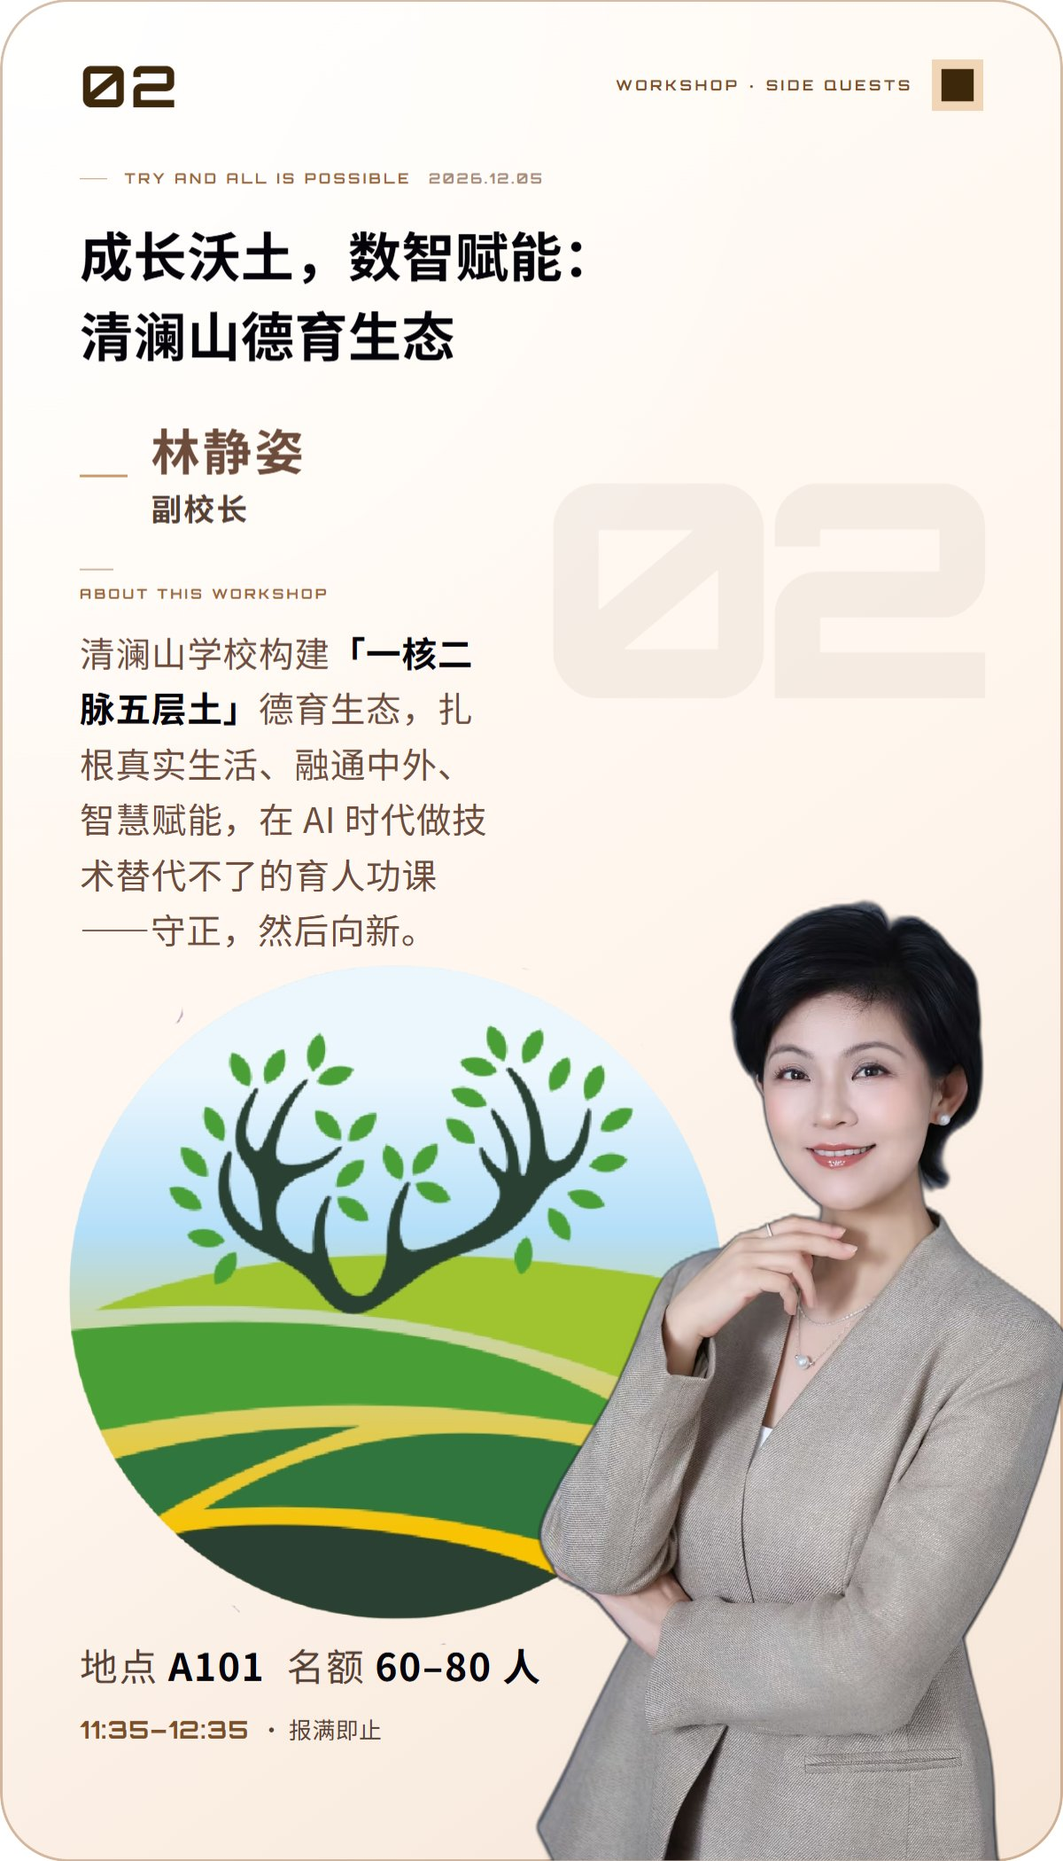
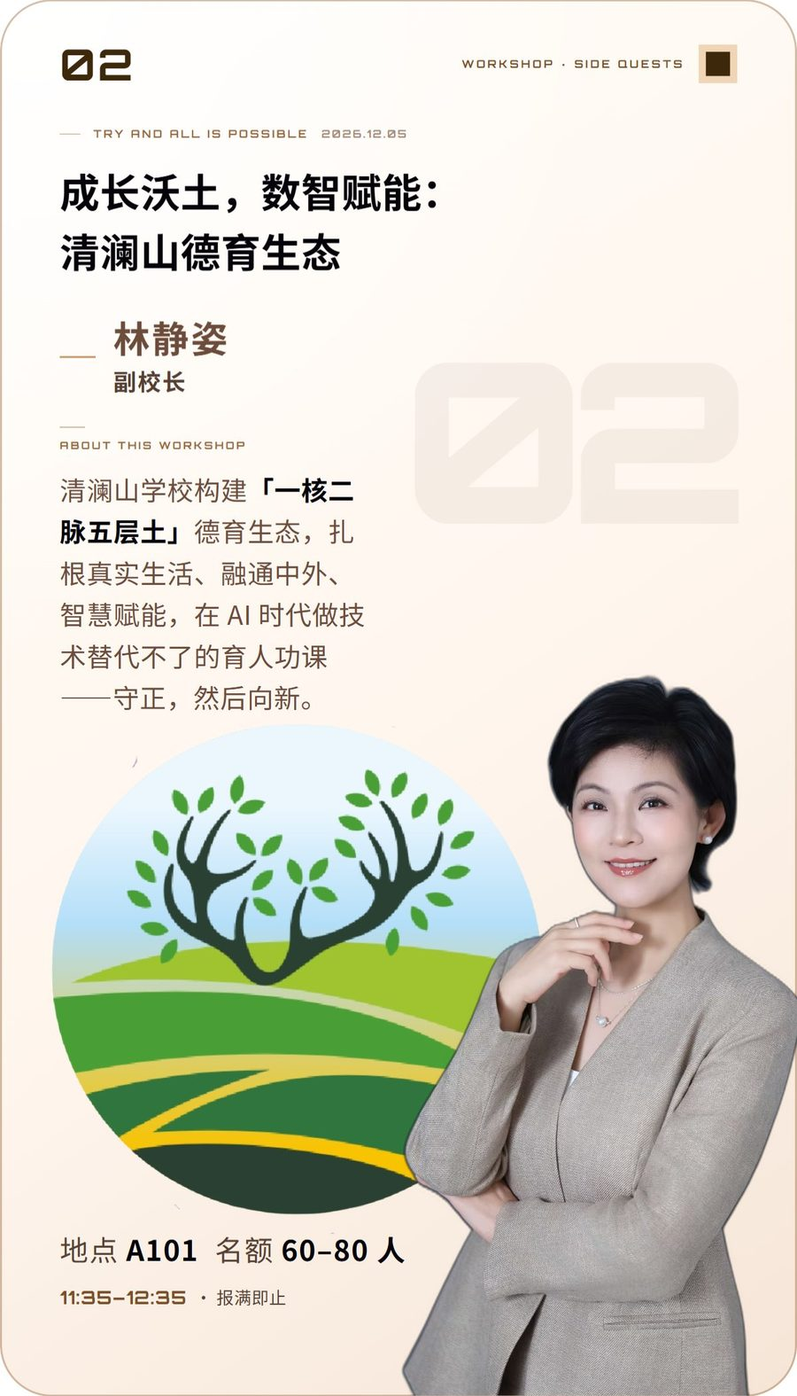
全站性能优化：海报900px重压缩省1.1MB、删7个无引用素材、img补宽高防抖动、粒子后台暂停

Changed region(s): [[0.3733, 0.3422, 0.4044, 0.3733], [0.1244, 0.4356, 0.1556, 0.4667]]

diff --git a/workshops.html b/workshops.html
@@ -451,18 +451,18 @@ fieldset{border:0;margin:0;padding:0;min-width:0}
       <div class="stage">
       <button type="button" class="edge edge--prev" id="deck-prev" aria-label="上一场" hidden><svg viewBox="0 0 24 24" width="26" height="26" aria-hidden="true"><path d="M15 4 L7 12 L15 20" fill="none" stroke="currentColor" stroke-width="2.4" stroke-linecap="round" stroke-linejoin="round"/></svg></button>
       <div class="deck" id="deck" aria-label="十二场工作坊，左右滑动换场">
-        <label class="card card--door" id="w01"><input type="radio" name="workshop" autocomplete="off" value="01"><span class="card__face"><img class="card__poster" data-src="assets/posters/01.jpg" alt="01 场海报：AI 教育创新的国际经验与基础教育本土化实践 · 黎蒙"><span class="card__door" aria-hidden="true"><b class="card__door-num">01</b><span class="card__door-t">点击开门 查看工作坊详情</span><span class="card__door-sub">黎蒙 · AI 教育创新</span><span class="card__keyhole"><i></i></span></span><span class="card__top"><b>01</b><span class="card__end"><span class="card__flag">已预选</span><i class="card__sq" aria-hidden="true"></i></span></span><span class="card__body"><span class="card__name">拒绝「伪装变革」：AI 时代重构真实学习设计的实操路径</span><span class="card__who">黎蒙</span></span><span class="card__meta"><span>地点<b>C100</b></span><span>名额<b>60–80 人</b></span></span></span></label>
-        <label class="card card--door" id="w02"><input type="radio" name="workshop" autocomplete="off" value="02"><span class="card__face"><img class="card__poster" data-src="assets/posters/02.jpg" alt="02 场工作坊海报"><span class="card__door" aria-hidden="true"><b class="card__door-num">02</b><span class="card__door-t">点击开门 查看工作坊详情</span><span class="card__door-sub">林静姿</span><span class="card__keyhole"><i></i></span></span><span class="card__top"><b>02</b><span class="card__end"><span class="card__flag">已预选</span><i class="card__sq" aria-hidden="true"></i></span></span><span class="card__body"><span class="card__name">当 AI 比我们会讲道理：国际化学校的德育，如何从「管住人」走向「长出判断」</span><span class="card__who">林静姿</span></span><span class="card__meta"><span>地点<b>待补</b></span><span>名额<b>待补</b></span></span></span></label>
-        <label class="card card--door" id="w03"><input type="radio" name="workshop" autocomplete="off" value="03"><span class="card__face"><img class="card__poster" data-src="assets/posters/03.jpg" alt="03 场工作坊海报"><span class="card__door" aria-hidden="true"><b class="card__door-num">03</b><span class="card__door-t">点击开门 查看工作坊详情</span><span class="card__door-sub">孙成伟</span><span class="card__keyhole"><i></i></span></span><span class="card__top"><b>03</b><span class="card__end"><span class="card__flag">已预选</span><i class="card__sq" aria-hidden="true"></i></span></span><span class="card__body"><span class="card__name">破解学习迷宫：AI 驱动下的个性化学习空间与路线设计</span><span class="card__who">孙成伟</span></span><span class="card__meta"><span>地点<b>待补</b></span><span>名额<b>待补</b></span></span></span></label>
-        <label class="card card--door" id="w04"><input type="radio" name="workshop" autocomplete="off" value="04"><span class="card__face"><img class="card__poster" data-src="assets/posters/04.jpg" alt="04 场工作坊海报"><span class="card__door" aria-hidden="true"><b class="card__door-num">04</b><span class="card__door-t">点击开门 查看工作坊详情</span><span class="card__door-sub">祁镇华 · 向晶</span><span class="card__keyhole"><i></i></span></span><span class="card__top"><b>04</b><span class="card__end"><span class="card__flag">已预选</span><i class="card__sq" aria-hidden="true"></i></span></span><span class="card__body"><span class="card__name">让数据「开口说话」：AI 驱动下的教务管理转型</span><span class="card__who">祁镇华 · 向晶</span></span><span class="card__meta"><span>地点<b>待补</b></span><span>名额<b>待补</b></span></span></span></label>
-        <label class="card card--door" id="w05"><input type="radio" name="workshop" autocomplete="off" value="05"><span class="card__face"><img class="card__poster" data-src="assets/posters/05.jpg" alt="05 场工作坊海报"><span class="card__door" aria-hidden="true"><b class="card__door-num">05</b><span class="card__door-t">点击开门 查看工作坊详情</span><span class="card__door-sub">Roselyn · 郭嘉</span><span class="card__keyhole"><i></i></span></span><span class="card__top"><b>05</b><span class="card__end"><span class="card__flag">已预选</span><i class="card__sq" aria-hidden="true"></i></span></span><span class="card__body"><span class="card__name">当作业可以一键生成：我们如何重塑「真学习」评估</span><span class="card__who">Roselyn · 郭嘉</span></span><span class="card__meta"><span>地点<b>待补</b></span><span>名额<b>待补</b></span></span></span></label>
-        <label class="card card--door" id="w06"><input type="radio" name="workshop" autocomplete="off" value="06"><span class="card__face"><img class="card__poster" data-src="assets/posters/06.jpg" alt="06 场工作坊海报"><span class="card__door" aria-hidden="true"><b class="card__door-num">06</b><span class="card__door-t">点击开门 查看工作坊详情</span><span class="card__door-sub">莫启源 · 阎泽雄</span><span class="card__keyhole"><i></i></span></span><span class="card__top"><b>06</b><span class="card__end"><span class="card__flag">已预选</span><i class="card__sq" aria-hidden="true"></i></span></span><span class="card__body"><span class="card__name">破局「课表难题」：如何系统化打造「每天一节」的硬核体育课程</span><span class="card__who">莫启源 · 阎泽雄</span></span><span class="card__meta"><span>地点<b>待补</b></span><span>名额<b>待补</b></span></span></span></label>
-        <label class="card card--door" id="w07"><input type="radio" name="workshop" autocomplete="off" value="07"><span class="card__face"><img class="card__poster" data-src="assets/posters/07.jpg" alt="07 场工作坊海报"><span class="card__door" aria-hidden="true"><b class="card__door-num">07</b><span class="card__door-t">点击开门 查看工作坊详情</span><span class="card__door-sub">张赞</span><span class="card__keyhole"><i></i></span></span><span class="card__top"><b>07</b><span class="card__end"><span class="card__flag">已预选</span><i class="card__sq" aria-hidden="true"></i></span></span><span class="card__body"><span class="card__name">当画笔遇上代码：CG Lab 如何把艺术、工程与设计锻造成跨学科课程</span><span class="card__who">张赞</span></span><span class="card__meta"><span>地点<b>待补</b></span><span>名额<b>待补</b></span></span></span></label>
-        <label class="card card--door" id="w08"><input type="radio" name="workshop" autocomplete="off" value="08"><span class="card__face"><img class="card__poster" data-src="assets/posters/08.jpg" alt="08 场工作坊海报"><span class="card__door" aria-hidden="true"><b class="card__door-num">08</b><span class="card__door-t">点击开门 查看工作坊详情</span><span class="card__door-sub">谈昕然 · Ryan Wong</span><span class="card__keyhole"><i></i></span></span><span class="card__top"><b>08</b><span class="card__end"><span class="card__flag">已预选</span><i class="card__sq" aria-hidden="true"></i></span></span><span class="card__body"><span class="card__name">学生的主体性与能动性，如何从「发现问题」走向「回应真实世界」</span><span class="card__who">谈昕然 · Ryan Wong</span></span><span class="card__meta"><span>地点<b>待补</b></span><span>名额<b>待补</b></span></span></span></label>
-        <label class="card card--door" id="w09"><input type="radio" name="workshop" autocomplete="off" value="09"><span class="card__face"><img class="card__poster" data-src="assets/posters/09.jpg" alt="09 场工作坊海报"><span class="card__door" aria-hidden="true"><b class="card__door-num">09</b><span class="card__door-t">点击开门 查看工作坊详情</span><span class="card__door-sub">王珊 · 王艺桐</span><span class="card__keyhole"><i></i></span></span><span class="card__top"><b>09</b><span class="card__end"><span class="card__flag">已预选</span><i class="card__sq" aria-hidden="true"></i></span></span><span class="card__body"><span class="card__name">先照顾好人，再谈成绩：一套 SEL 教材与课程</span><span class="card__who">王珊 · 王艺桐</span></span><span class="card__meta"><span>地点<b>待补</b></span><span>名额<b>待补</b></span></span></span></label>
-        <label class="card card--door" id="w10"><input type="radio" name="workshop" autocomplete="off" value="10"><span class="card__face"><img class="card__poster" data-src="assets/posters/10.jpg" alt="10 场工作坊海报"><span class="card__door" aria-hidden="true"><b class="card__door-num">10</b><span class="card__door-t">点击开门 查看工作坊详情</span><span class="card__door-sub">魏方 · 郭航</span><span class="card__keyhole"><i></i></span></span><span class="card__top"><b>10</b><span class="card__end"><span class="card__flag">已预选</span><i class="card__sq" aria-hidden="true"></i></span></span><span class="card__body"><span class="card__name">最后一年，交出你自己的作品：小学、初中的毕业项目</span><span class="card__who">魏方 · 郭航</span></span><span class="card__meta"><span>地点<b>待补</b></span><span>名额<b>待补</b></span></span></span></label>
-        <label class="card card--door" id="w11"><input type="radio" name="workshop" autocomplete="off" value="11"><span class="card__face"><img class="card__poster" data-src="assets/posters/11.jpg" alt="11 场工作坊海报"><span class="card__door" aria-hidden="true"><b class="card__door-num">11</b><span class="card__door-t">点击开门 查看工作坊详情</span><span class="card__door-sub">白文婷</span><span class="card__keyhole"><i></i></span></span><span class="card__top"><b>11</b><span class="card__end"><span class="card__flag">已预选</span><i class="card__sq" aria-hidden="true"></i></span></span><span class="card__body"><span class="card__name">从读到写，从课本到舞台：语文组的十二年</span><span class="card__who">白文婷</span></span><span class="card__meta"><span>地点<b>待补</b></span><span>名额<b>待补</b></span></span></span></label>
-        <label class="card card--door" id="w12"><input type="radio" name="workshop" autocomplete="off" value="12"><span class="card__face"><img class="card__poster" data-src="assets/posters/12.jpg" alt="12 场工作坊海报"><span class="card__door" aria-hidden="true"><b class="card__door-num">12</b><span class="card__door-t">点击开门 查看工作坊详情</span><span class="card__door-sub">柏苇</span><span class="card__keyhole"><i></i></span></span><span class="card__top"><b>12</b><span class="card__end"><span class="card__flag">已预选</span><i class="card__sq" aria-hidden="true"></i></span></span><span class="card__body"><span class="card__name">把「创新基因」做成可复制的模板：初中科学差异化跨学科 PBL</span><span class="card__who">柏苇</span></span><span class="card__meta"><span>地点<b>待补</b></span><span>名额<b>待补</b></span></span></span></label>
+        <label class="card card--door" id="w01"><input type="radio" name="workshop" autocomplete="off" value="01"><span class="card__face"><img class="card__poster" width="900" height="1575" data-src="assets/posters/01.jpg" alt="01 场海报：AI 教育创新的国际经验与基础教育本土化实践 · 黎蒙"><span class="card__door" aria-hidden="true"><b class="card__door-num">01</b><span class="card__door-t">点击开门 查看工作坊详情</span><span class="card__door-sub">黎蒙 · AI 教育创新</span><span class="card__keyhole"><i></i></span></span><span class="card__top"><b>01</b><span class="card__end"><span class="card__flag">已预选</span><i class="card__sq" aria-hidden="true"></i></span></span><span class="card__body"><span class="card__name">拒绝「伪装变革」：AI 时代重构真实学习设计的实操路径</span><span class="card__who">黎蒙</span></span><span class="card__meta"><span>地点<b>C100</b></span><span>名额<b>60–80 人</b></span></span></span></label>
+        <label class="card card--door" id="w02"><input type="radio" name="workshop" autocomplete="off" value="02"><span class="card__face"><img class="card__poster" width="900" height="1575" data-src="assets/posters/02.jpg" alt="02 场工作坊海报"><span class="card__door" aria-hidden="true"><b class="card__door-num">02</b><span class="card__door-t">点击开门 查看工作坊详情</span><span class="card__door-sub">林静姿</span><span class="card__keyhole"><i></i></span></span><span class="card__top"><b>02</b><span class="card__end"><span class="card__flag">已预选</span><i class="card__sq" aria-hidden="true"></i></span></span><span class="card__body"><span class="card__name">当 AI 比我们会讲道理：国际化学校的德育，如何从「管住人」走向「长出判断」</span><span class="card__who">林静姿</span></span><span class="card__meta"><span>地点<b>待补</b></span><span>名额<b>待补</b></span></span></span></label>
+        <label class="card card--door" id="w03"><input type="radio" name="workshop" autocomplete="off" value="03"><span class="card__face"><img class="card__poster" width="900" height="1575" data-src="assets/posters/03.jpg" alt="03 场工作坊海报"><span class="card__door" aria-hidden="true"><b class="card__door-num">03</b><span class="card__door-t">点击开门 查看工作坊详情</span><span class="card__door-sub">孙成伟</span><span class="card__keyhole"><i></i></span></span><span class="card__top"><b>03</b><span class="card__end"><span class="card__flag">已预选</span><i class="card__sq" aria-hidden="true"></i></span></span><span class="card__body"><span class="card__name">破解学习迷宫：AI 驱动下的个性化学习空间与路线设计</span><span class="card__who">孙成伟</span></span><span class="card__meta"><span>地点<b>待补</b></span><span>名额<b>待补</b></span></span></span></label>
+        <label class="card card--door" id="w04"><input type="radio" name="workshop" autocomplete="off" value="04"><span class="card__face"><img class="card__poster" width="900" height="1575" data-src="assets/posters/04.jpg" alt="04 场工作坊海报"><span class="card__door" aria-hidden="true"><b class="card__door-num">04</b><span class="card__door-t">点击开门 查看工作坊详情</span><span class="card__door-sub">祁镇华 · 向晶</span><span class="card__keyhole"><i></i></span></span><span class="card__top"><b>04</b><span class="card__end"><span class="card__flag">已预选</span><i class="card__sq" aria-hidden="true"></i></span></span><span class="card__body"><span class="card__name">让数据「开口说话」：AI 驱动下的教务管理转型</span><span class="card__who">祁镇华 · 向晶</span></span><span class="card__meta"><span>地点<b>待补</b></span><span>名额<b>待补</b></span></span></span></label>
+        <label class="card card--door" id="w05"><input type="radio" name="workshop" autocomplete="off" value="05"><span class="card__face"><img class="card__poster" width="900" height="1575" data-src="assets/posters/05.jpg" alt="05 场工作坊海报"><span class="card__door" aria-hidden="true"><b class="card__door-num">05</b><span class="card__door-t">点击开门 查看工作坊详情</span><span class="card__door-sub">Roselyn · 郭嘉</span><span class="card__keyhole"><i></i></span></span><span class="card__top"><b>05</b><span class="card__end"><span class="card__flag">已预选</span><i class="card__sq" aria-hidden="true"></i></span></span><span class="card__body"><span class="card__name">当作业可以一键生成：我们如何重塑「真学习」评估</span><span class="card__who">Roselyn · 郭嘉</span></span><span class="card__meta"><span>地点<b>待补</b></span><span>名额<b>待补</b></span></span></span></label>
+        <label class="card card--door" id="w06"><input type="radio" name="workshop" autocomplete="off" value="06"><span class="card__face"><img class="card__poster" width="900" height="1575" data-src="assets/posters/06.jpg" alt="06 场工作坊海报"><span class="card__door" aria-hidden="true"><b class="card__door-num">06</b><span class="card__door-t">点击开门 查看工作坊详情</span><span class="card__door-sub">莫启源 · 阎泽雄</span><span class="card__keyhole"><i></i></span></span><span class="card__top"><b>06</b><span class="card__end"><span class="card__flag">已预选</span><i class="card__sq" aria-hidden="true"></i></span></span><span class="card__body"><span class="card__name">破局「课表难题」：如何系统化打造「每天一节」的硬核体育课程</span><span class="card__who">莫启源 · 阎泽雄</span></span><span class="card__meta"><span>地点<b>待补</b></span><span>名额<b>待补</b></span></span></span></label>
+        <label class="card card--door" id="w07"><input type="radio" name="workshop" autocomplete="off" value="07"><span class="card__face"><img class="card__poster" width="900" height="1575" data-src="assets/posters/07.jpg" alt="07 场工作坊海报"><span class="card__door" aria-hidden="true"><b class="card__door-num">07</b><span class="card__door-t">点击开门 查看工作坊详情</span><span class="card__door-sub">张赞</span><span class="card__keyhole"><i></i></span></span><span class="card__top"><b>07</b><span class="card__end"><span class="card__flag">已预选</span><i class="card__sq" aria-hidden="true"></i></span></span><span class="card__body"><span class="card__name">当画笔遇上代码：CG Lab 如何把艺术、工程与设计锻造成跨学科课程</span><span class="card__who">张赞</span></span><span class="card__meta"><span>地点<b>待补</b></span><span>名额<b>待补</b></span></span></span></label>
+        <label class="card card--door" id="w08"><input type="radio" name="workshop" autocomplete="off" value="08"><span class="card__face"><img class="card__poster" width="900" height="1575" data-src="assets/posters/08.jpg" alt="08 场工作坊海报"><span class="card__door" aria-hidden="true"><b class="card__door-num">08</b><span class="card__door-t">点击开门 查看工作坊详情</span><span class="card__door-sub">谈昕然 · Ryan Wong</span><span class="card__keyhole"><i></i></span></span><span class="card__top"><b>08</b><span class="card__end"><span class="card__flag">已预选</span><i class="card__sq" aria-hidden="true"></i></span></span><span class="card__body"><span class="card__name">学生的主体性与能动性，如何从「发现问题」走向「回应真实世界」</span><span class="card__who">谈昕然 · Ryan Wong</span></span><span class="card__meta"><span>地点<b>待补</b></span><span>名额<b>待补</b></span></span></span></label>
+        <label class="card card--door" id="w09"><input type="radio" name="workshop" autocomplete="off" value="09"><span class="card__face"><img class="card__poster" width="900" height="1575" data-src="assets/posters/09.jpg" alt="09 场工作坊海报"><span class="card__door" aria-hidden="true"><b class="card__door-num">09</b><span class="card__door-t">点击开门 查看工作坊详情</span><span class="card__door-sub">王珊 · 王艺桐</span><span class="card__keyhole"><i></i></span></span><span class="card__top"><b>09</b><span class="card__end"><span class="card__flag">已预选</span><i class="card__sq" aria-hidden="true"></i></span></span><span class="card__body"><span class="card__name">先照顾好人，再谈成绩：一套 SEL 教材与课程</span><span class="card__who">王珊 · 王艺桐</span></span><span class="card__meta"><span>地点<b>待补</b></span><span>名额<b>待补</b></span></span></span></label>
+        <label class="card card--door" id="w10"><input type="radio" name="workshop" autocomplete="off" value="10"><span class="card__face"><img class="card__poster" width="900" height="1575" data-src="assets/posters/10.jpg" alt="10 场工作坊海报"><span class="card__door" aria-hidden="true"><b class="card__door-num">10</b><span class="card__door-t">点击开门 查看工作坊详情</span><span class="card__door-sub">魏方 · 郭航</span><span class="card__keyhole"><i></i></span></span><span class="card__top"><b>10</b><span class="card__end"><span class="card__flag">已预选</span><i class="card__sq" aria-hidden="true"></i></span></span><span class="card__body"><span class="card__name">最后一年，交出你自己的作品：小学、初中的毕业项目</span><span class="card__who">魏方 · 郭航</span></span><span class="card__meta"><span>地点<b>待补</b></span><span>名额<b>待补</b></span></span></span></label>
+        <label class="card card--door" id="w11"><input type="radio" name="workshop" autocomplete="off" value="11"><span class="card__face"><img class="card__poster" width="900" height="1575" data-src="assets/posters/11.jpg" alt="11 场工作坊海报"><span class="card__door" aria-hidden="true"><b class="card__door-num">11</b><span class="card__door-t">点击开门 查看工作坊详情</span><span class="card__door-sub">白文婷</span><span class="card__keyhole"><i></i></span></span><span class="card__top"><b>11</b><span class="card__end"><span class="card__flag">已预选</span><i class="card__sq" aria-hidden="true"></i></span></span><span class="card__body"><span class="card__name">从读到写，从课本到舞台：语文组的十二年</span><span class="card__who">白文婷</span></span><span class="card__meta"><span>地点<b>待补</b></span><span>名额<b>待补</b></span></span></span></label>
+        <label class="card card--door" id="w12"><input type="radio" name="workshop" autocomplete="off" value="12"><span class="card__face"><img class="card__poster" width="900" height="1575" data-src="assets/posters/12.jpg" alt="12 场工作坊海报"><span class="card__door" aria-hidden="true"><b class="card__door-num">12</b><span class="card__door-t">点击开门 查看工作坊详情</span><span class="card__door-sub">柏苇</span><span class="card__keyhole"><i></i></span></span><span class="card__top"><b>12</b><span class="card__end"><span class="card__flag">已预选</span><i class="card__sq" aria-hidden="true"></i></span></span><span class="card__body"><span class="card__name">把「创新基因」做成可复制的模板：初中科学差异化跨学科 PBL</span><span class="card__who">柏苇</span></span><span class="card__meta"><span>地点<b>待补</b></span><span>名额<b>待补</b></span></span></span></label>
       </div>
       <button type="button" class="edge edge--next" id="deck-next" aria-label="下一场"><svg viewBox="0 0 24 24" width="26" height="26" aria-hidden="true"><path d="M9 4 L17 12 L9 20" fill="none" stroke="currentColor" stroke-width="2.4" stroke-linecap="round" stroke-linejoin="round"/></svg></button>
       </div>

diff --git a/index.html b/index.html
@@ -963,11 +963,15 @@ body{
       ctx.fill();
     }
 
-    if(!reduce) requestAnimationFrame(draw);
+    if(!reduce && !document.hidden) requestAnimationFrame(draw);
   }
 
   resize();
-  window.addEventListener('resize', function(){ resize(); draw(0); }, {passive:true});
+  window.addEventListener('resize', function(){ resize(); if(!document.hidden) draw(0); }, {passive:true});
+  /* 切后台/锁屏立即停画，回前台再续：省电省 GPU，回页不堆积掉帧 */
+  document.addEventListener('visibilitychange', function(){
+    if(!document.hidden && !reduce) draw(0);
+  });
   draw(0);
 })();
 </script>
